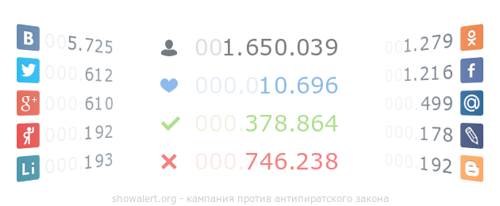
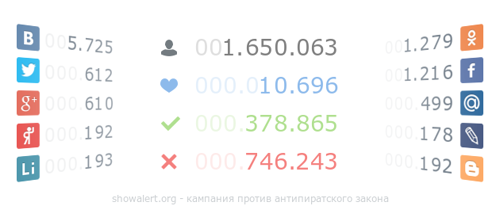
some updates

Changed region(s): [[0.6, 0.7282, 0.69, 0.8447], [0.6, 0.1748, 0.69, 0.2621], [0.63, 0.5534, 0.69, 0.6408]]

diff --git a/votes.js b/votes.js
@@ -1,1 +1,1 @@
-window.lk.votes(28058)
+window.lk.votes(28059)
